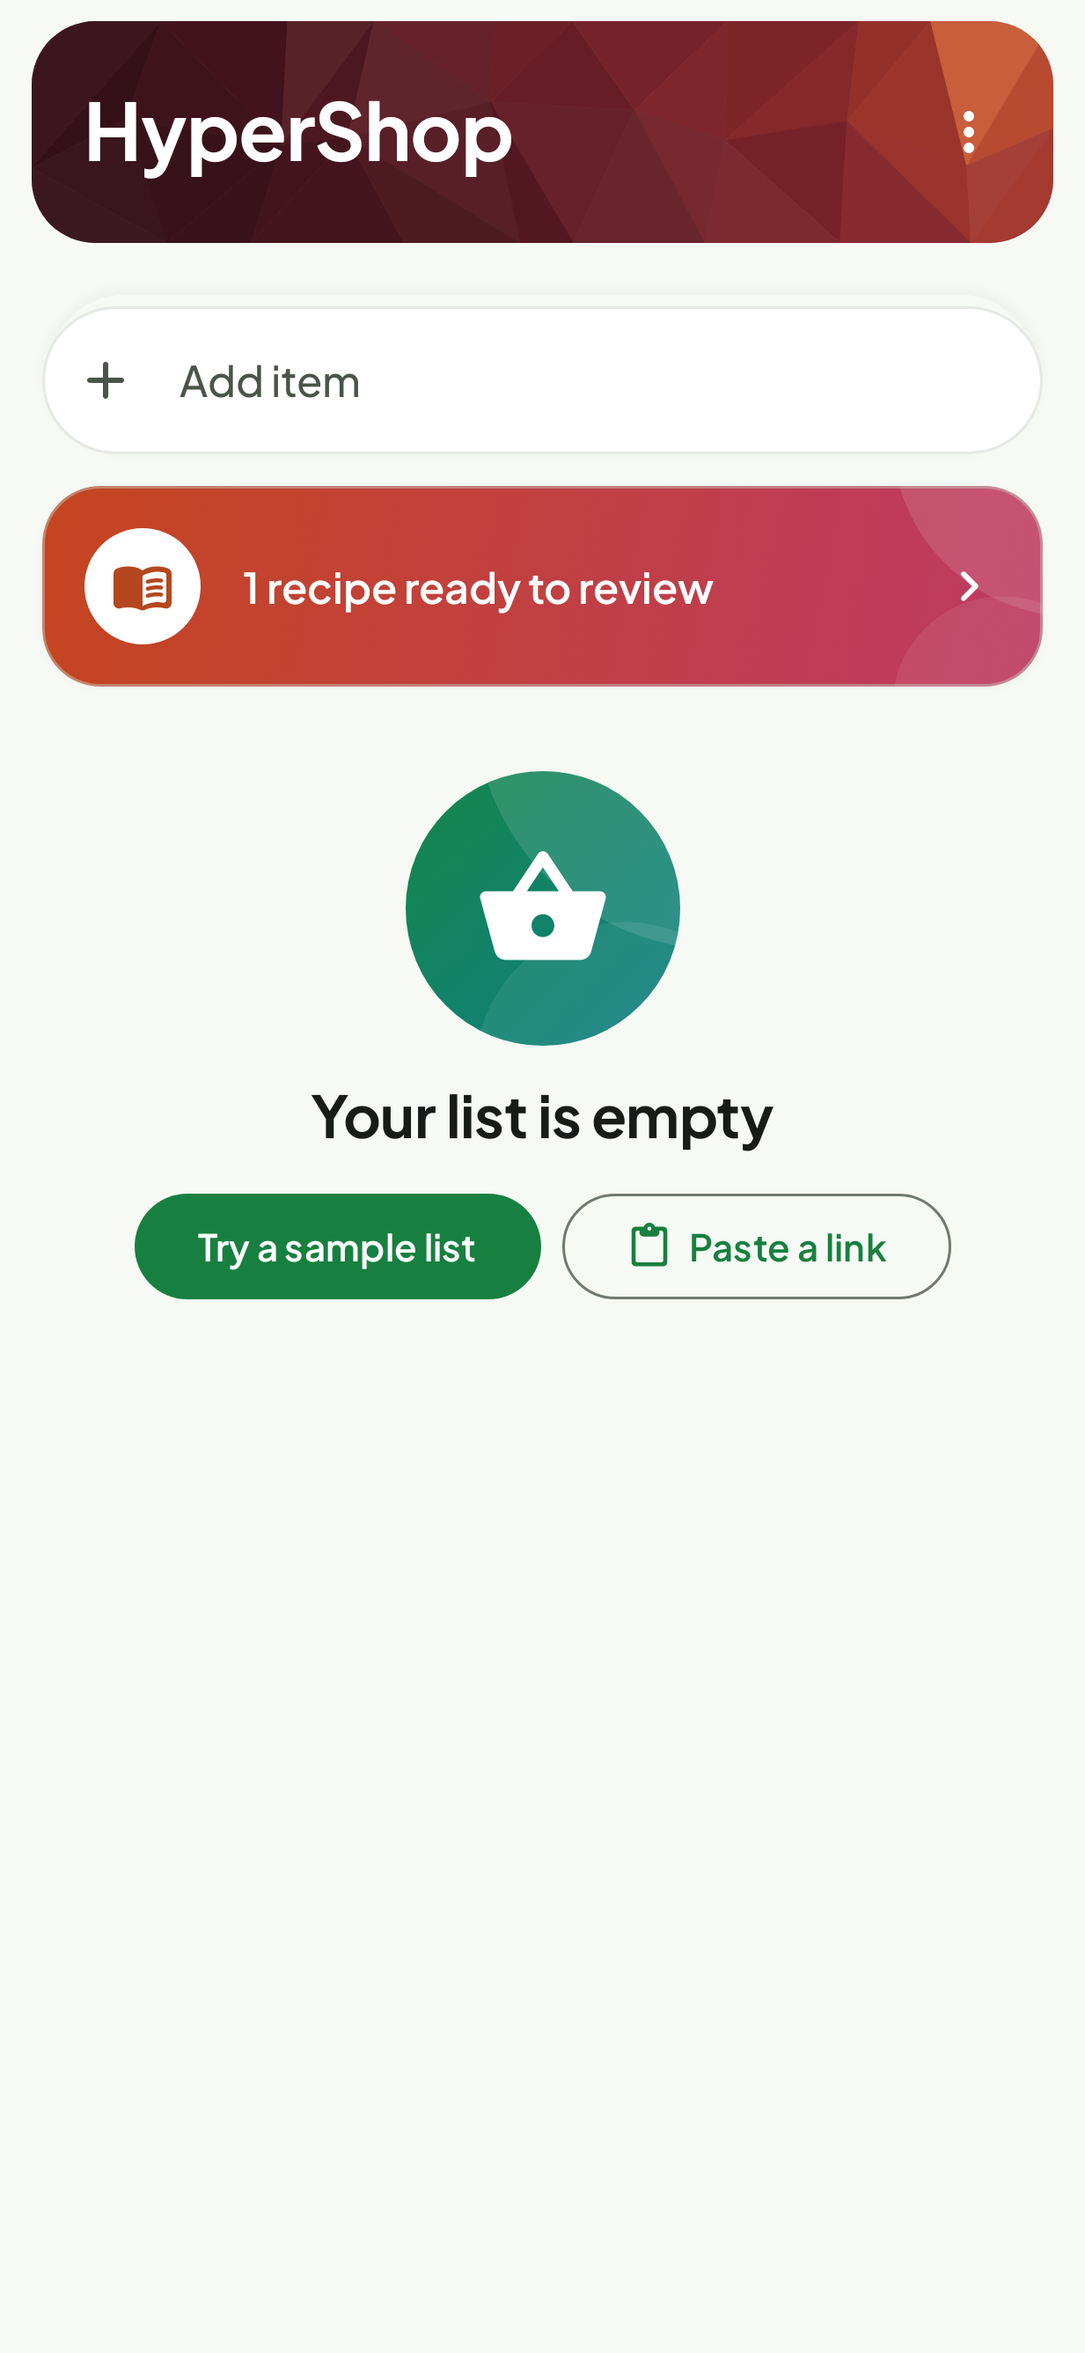
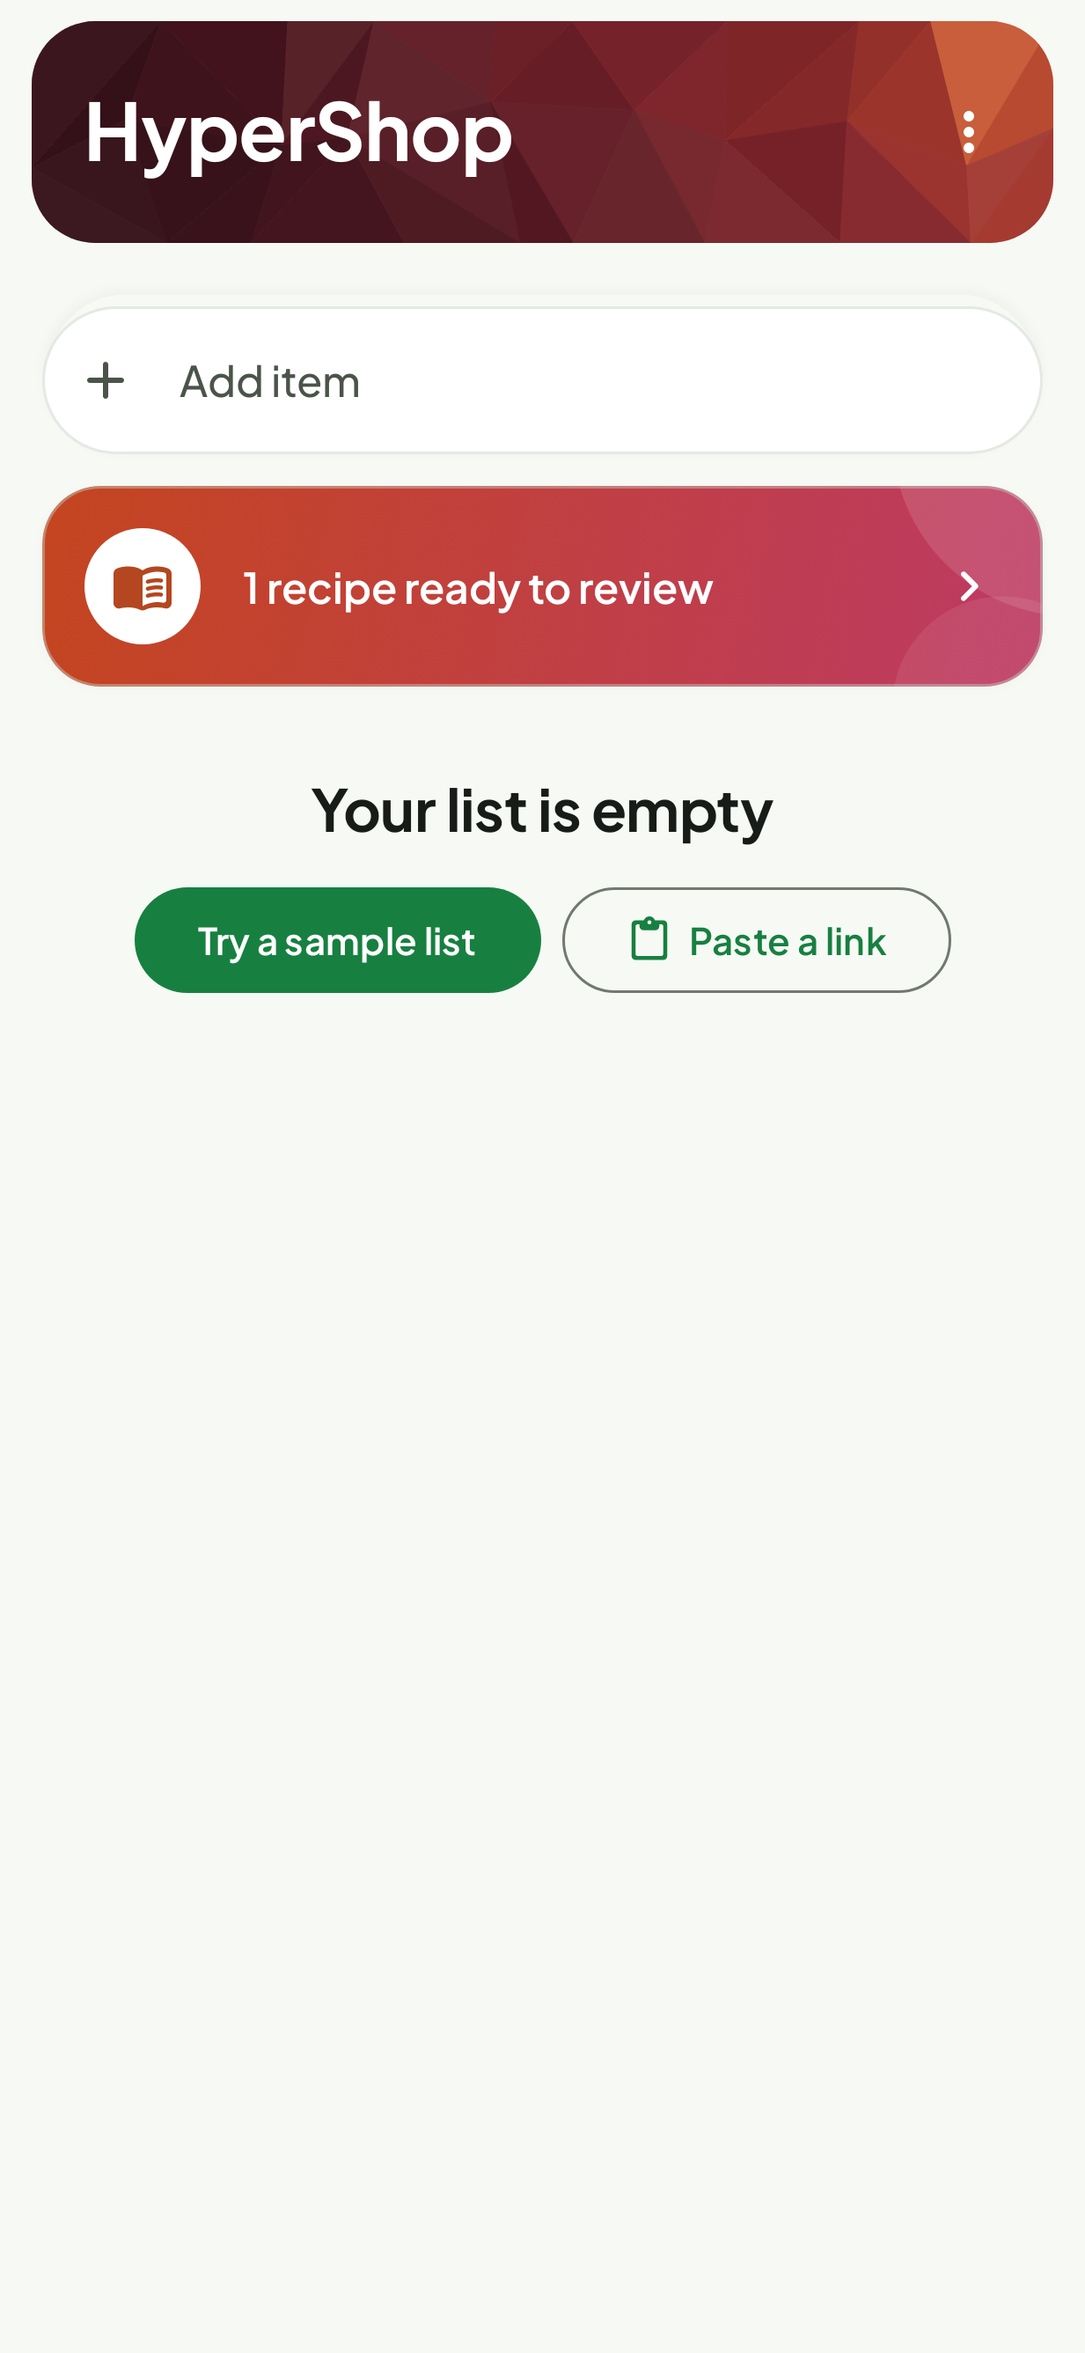
[fix] Fixes from real use: stray reviews, quiet ticks, recipes stay once bought (#44)
* [fix] No stray "recipe ready to review" after an edit or a library re-add

Edit and Add-from-library open the review through an import job. Leaving
one with the system Back kept that job READY, so it turned up on the list
as "1 recipe ready to review" (noticed after an update, when the list was
next opened). These reviews are now throwaway (ImportResult.throwaway):
Back is Cancel on them, Cancel drops them without the "Import discarded"
Undo, and start-up clears any already left behind. Shared and typed-in
imports keep their ready card as before.

Claude-Session: https://claude.ai/code/session_016z2Qp5Lw5mkgJm6Jzuit5a

* [fix] Quiet ticks, recipes stay once bought, plain empty states

From real use:
- No snackbar on a tick: tapping again is the undo, and the popup covered
  the bottom of the list on every tick.
- A recipe stays on the Recipes tab once all its items are bought, marked
  "All bought", as the week's reminder of what to cook. It goes with
  Remove from list, or the 7-day archive at Finish shopping. The
  hand-added card still goes with its last item.
- The empty list (and empty Recipes tab) lose the icon in a green circle.

Claude-Session: https://claude.ai/code/session_016z2Qp5Lw5mkgJm6Jzuit5a

---------

Changed region(s): [[0.1233, 0.3105, 0.8321, 0.5589], [0.6472, 0.5279, 0.8321, 0.5589]]

diff --git a/android/app/src/main/java/com/robert4lyf/hypershop/ui/recipes/RecipesRoute.kt b/android/app/src/main/java/com/robert4lyf/hypershop/ui/recipes/RecipesRoute.kt
@@ -25,6 +25,7 @@ import androidx.compose.material.icons.automirrored.rounded.MenuBook
 import androidx.compose.material.icons.automirrored.rounded.OpenInNew
 import androidx.compose.material.icons.rounded.Add
 import androidx.compose.material.icons.rounded.Close
+import androidx.compose.material.icons.rounded.DoneAll
 import androidx.compose.material.icons.rounded.Edit
 import androidx.compose.material.icons.rounded.Inventory
 import androidx.compose.material.icons.rounded.Link
@@ -233,10 +234,7 @@ fun RecipesScreen(
                 }
                 if (ui.loaded && ui.uses.isEmpty() && !ui.hasLibrary) {
                     item(key = "empty") {
-                        EmptyHero(
-                            Icons.AutoMirrored.Rounded.MenuBook,
-                            "No recipes yet",
-                        )
+                        EmptyHero("No recipes yet")
                     }
                 }
                 if (ui.hasLibrary) {
@@ -596,7 +594,7 @@ private fun UseCard(
                 val bits =
                     listOfNotNull(
                         use.servings?.let { "Serves $it" },
-                        if (use.itemCount == 1) "1 item on the list" else "${use.itemCount} items on the list",
+                        itemsLine(use.itemCount),
                         use.inStockCount.takeIf { it > 0 }?.let { "$it in stock" },
                     )
                 FlowRow(
@@ -607,7 +605,11 @@ private fun UseCard(
                     val bg = Brand.tint(hue, dark)
                     val fg = Brand.strong(hue, dark)
                     use.servings?.let { Fact(Icons.Rounded.People, "Serves $it", bg, fg) }
-                    Fact(Icons.Rounded.ShoppingCart, if (use.itemCount == 1) "1 item" else "${use.itemCount} items", bg, fg)
+                    when (use.itemCount) {
+                        0 -> Fact(Icons.Rounded.DoneAll, "All bought", bg, fg)
+                        1 -> Fact(Icons.Rounded.ShoppingCart, "1 item", bg, fg)
+                        else -> Fact(Icons.Rounded.ShoppingCart, "${use.itemCount} items", bg, fg)
+                    }
                     if (use.inStockCount > 0) Fact(Icons.Rounded.Inventory, "${use.inStockCount} in stock", bg, fg)
                 }
                 if (url != null) {
@@ -765,7 +767,7 @@ fun UseDetailContent(
                     listOfNotNull(
                         url?.let { siteName(it) } ?: use.bookRef,
                         use.servings?.let { s -> "Serves $s" + (detail.writtenFor?.let { " (written for $it)" } ?: "") },
-                        if (use.itemCount == 1) "1 item on the list" else "${use.itemCount} items on the list",
+                        itemsLine(use.itemCount),
                     )
                 Text(
                     bits.joinToString(" · "),
@@ -817,3 +819,11 @@ fun UseDetailContent(
         }
     }
 }
+
+/** "6 items on the list", or "All bought" once a recipe's shopping is done and it stays as a reminder. */
+private fun itemsLine(n: Int): String =
+    when (n) {
+        0 -> "All bought"
+        1 -> "1 item on the list"
+        else -> "$n items on the list"
+    }

diff --git a/android/app/src/test/java/com/robert4lyf/hypershop/ui/recipes/RecipesViewModelTest.kt b/android/app/src/test/java/com/robert4lyf/hypershop/ui/recipes/RecipesViewModelTest.kt
@@ -259,6 +259,59 @@ class RecipesViewModelTest {
     }
 
     @Test
+    fun aRecipeStaysOnceEverythingIsBoughtAndHandAddedGoes() {
+        val c = TestContainer.create()
+        c.add(*CHILLI)
+        runBlocking {
+            val p = c.ruleParser.parse("bin bags")
+            c.repository.manualAdd(p.name, p.shopBase(UnitLocale.METRIC), p.shopUnit)
+        }
+        val vm = RecipesViewModel(c).shown()
+        await(vm.ui) { it.uses.size == 2 }
+        // Everything bought: tick it all, then Finish shopping.
+        runBlocking {
+            for (item in c.repository.snapshot().liveItems) c.repository.toggle(item.id)
+            c.repository.finishShopping()
+        }
+        val after = await(vm.ui) { u -> u.uses.size == 1 && u.uses.single().itemCount == 0 }
+        // The recipe is still there to cook; the hand-added card went with its items.
+        assertEquals("Weeknight chilli", after.uses.single().title)
+        // And "Remove from list" still clears it.
+        vm.remove(after.uses.single())
+        await(vm.ui) { it.uses.isEmpty() }
+    }
+
+    @Test
+    fun leavingAnEditOrALibraryReAddLeavesNothingReadyToReview() {
+        val c = TestContainer.create()
+        c.add(*CHILLI)
+        val vm = RecipesViewModel(c).shown()
+        val start = await(vm.ui) { it.uses.isNotEmpty() && it.library.isNotEmpty() }
+        // Edit, then Back (which is Cancel on these).
+        vm.edit(start.uses.single())
+        val edit = ReviewViewModel(c, nextReview(vm))
+        await(edit.state) { it is ReviewState.Ready }
+        assertTrue(edit.isThrowaway)
+        edit.cancel()
+        await(edit.state) { it is ReviewState.Cancelled }
+        runBlocking { edit.discardForGood() }
+        // "Add" from the library, then Back.
+        vm.addFromLibrary(start.library.single())
+        val again = ReviewViewModel(c, nextReview(vm))
+        // Already on the list: the review asks first, as it does in the app.
+        await(again.state) { it is ReviewState.AlreadyOnList }
+        again.addAgain()
+        await(again.state) { it is ReviewState.Ready }
+        assertTrue(again.isThrowaway)
+        again.cancel()
+        await(again.state) { it is ReviewState.Cancelled }
+        runBlocking { again.discardForGood() }
+        assertTrue(runBlocking { c.importJobs.ready.first() }.isEmpty())
+        // The recipe on the list is untouched.
+        assertEquals(1, await(vm.ui) { it.uses.size == 1 }.uses.size)
+    }
+
+    @Test
     fun renamingShowsOnTheListAndInTheLibrary() {
         val c = TestContainer.create()
         c.add(*CHILLI)

diff --git a/android/app/src/main/java/com/robert4lyf/hypershop/ui/common/Components.kt b/android/app/src/main/java/com/robert4lyf/hypershop/ui/common/Components.kt
@@ -61,8 +61,6 @@ import com.robert4lyf.hypershop.ui.theme.Brand
 import com.robert4lyf.hypershop.ui.theme.LocalDarkTheme
 import com.robert4lyf.hypershop.ui.theme.card
 import com.robert4lyf.hypershop.ui.theme.cardEdge
-import com.robert4lyf.hypershop.ui.theme.heroBrush
-import com.robert4lyf.hypershop.ui.theme.heroGlow
 import com.robert4lyf.hypershop.ui.theme.lowPoly
 import com.robert4lyf.hypershop.ui.theme.style
 
@@ -278,10 +276,9 @@ fun InfoBanner(
     }
 }
 
-/** A large icon in a soft circle, a headline and whatever explains the next step. */
+/** A headline and whatever explains the next step. */
 @Composable
 fun EmptyHero(
-    icon: ImageVector,
     title: String,
     modifier: Modifier = Modifier,
     body: String? = null,
@@ -292,12 +289,6 @@ fun EmptyHero(
         horizontalAlignment = Alignment.CenterHorizontally,
         verticalArrangement = Arrangement.spacedBy(12.dp),
     ) {
-        Box(
-            Modifier.size(104.dp).clip(CircleShape).background(heroBrush).heroGlow(),
-            contentAlignment = Alignment.Center,
-        ) {
-            Icon(icon, contentDescription = null, tint = Brand.OnHero, modifier = Modifier.size(52.dp))
-        }
         Text(title, style = MaterialTheme.typography.headlineSmall)
         body?.let {
             Text(it, style = MaterialTheme.typography.bodyMedium, color = MaterialTheme.colorScheme.onSurfaceVariant)

diff --git a/android/app/src/main/java/com/robert4lyf/hypershop/ui/review/ReviewRoute.kt b/android/app/src/main/java/com/robert4lyf/hypershop/ui/review/ReviewRoute.kt
@@ -1,5 +1,6 @@
 package com.robert4lyf.hypershop.ui.review
 
+import androidx.activity.compose.BackHandler
 import androidx.compose.foundation.layout.Arrangement
 import androidx.compose.foundation.layout.Box
 import androidx.compose.foundation.layout.Column
@@ -96,6 +97,10 @@ fun ReviewRoute(
             dismissButton = { TextButton(onClick = { confirmDiscard = false }) { Text("Keep editing") } },
         )
     }
+    // Back on an edit or a library re-add is Cancel: left as it was, it sat on the
+    // list as "1 recipe ready to review" for something that was never an import.
+    val live = state is ReviewState.Ready || state is ReviewState.Loading
+    BackHandler(enabled = live && vm.isThrowaway) { vm.cancel() }
     when (val s = state) {
         is ReviewState.Loading -> LoadingView(s, onCancel = vm::cancel, onPaste = vm::pasteInstead)
         is ReviewState.Ready ->
@@ -159,7 +164,7 @@ fun ReviewRoute(
         ReviewState.Cancelled ->
             LaunchedEffect(Unit) {
                 onDone()
-                if (vm.isEdit) {
+                if (vm.isThrowaway) {
                     // Nothing was changed on the list, so "Import discarded" and its Undo would be noise.
                     container.applicationScope.launch(Dispatchers.Main) { vm.discardForGood() }
                     return@LaunchedEffect

diff --git a/android/app/src/test/java/com/robert4lyf/hypershop/ui/list/ListViewModelTest.kt b/android/app/src/test/java/com/robert4lyf/hypershop/ui/list/ListViewModelTest.kt
@@ -134,17 +134,10 @@ class ListViewModelTest {
         c.add("2 onions")
         val vm = ListViewModel(c)
         val ui = await(vm.ui) { it.loaded && it.aisles.isNotEmpty() }
-        // A tick is announced, with Undo; tapping again is the undo too.
+        // A tick is quiet; tapping again is the undo.
         vm.toggle(ui.row("onion"))
-        var m = nextMessage(vm)
-        assertEquals("Ticked onion", m.text)
         val done = await(vm.ui) { it.row("onion").state == TickState.DONE }
         vm.toggle(done.row("onion"))
-        await(vm.ui) { it.row("onion").state == TickState.OPEN }
-        vm.toggle(ui.row("onion"))
-        await(vm.ui) { it.row("onion").state == TickState.DONE }
-        m = nextMessage(vm)
-        runBlocking { m.undo!!() }
         await(vm.ui) { it.row("onion").state == TickState.OPEN }
         vm.toggle(ui.row("onion"))
         await(vm.ui) { it.row("onion").state == TickState.DONE }
@@ -166,7 +159,6 @@ class ListViewModelTest {
         runBlocking { m.undo!!() }
         ui = await(vm.ui) { u -> u.aisles.flatMap { it.second }.any { it.name == "carrot" } }
         vm.toggle(ui.row("onion"))
-        assertEquals("Ticked onion", nextMessage(vm).text)
         await(vm.ui) { it.doneCount == 1 }
         vm.finishShopping()
         m = nextMessage(vm)

diff --git a/android/app/src/main/java/com/robert4lyf/hypershop/ui/list/ListViewModel.kt b/android/app/src/main/java/com/robert4lyf/hypershop/ui/list/ListViewModel.kt
@@ -321,21 +321,10 @@ class ListViewModel(
     fun setView(v: ListView) = viewModelScope.launch { c.settings.setListView(v) }
 
     /** The round tick: tick, or untick a DONE row. */
-    fun toggle(row: ListRow) = toggle(row.id, row.name)
+    fun toggle(row: ListRow) = toggle(row.id)
 
-    /**
-     * Tick, or untick a DONE item (the item sheet's button too). A tick gets a
-     * snackbar with Undo, since the row slides away; an untick doesn't, as
-     * tapping again is its undo.
-     */
-    fun toggle(
-        id: Long,
-        name: String,
-    ) = viewModelScope.launch {
-        if (!c.repository.toggle(id)) return@launch
-        // Read back rather than trusting the row on screen: a quick second tap unticks before the list redraws.
-        if (c.repository.snapshot().isDone(id)) messages.send(UiMessage("Ticked $name", undo = { c.repository.untick(id) }))
-    }
+    /** Tick, or untick a DONE item (the item sheet's button too). No snackbar: tapping again is the undo. */
+    fun toggle(id: Long) = viewModelScope.launch { c.repository.toggle(id) }
 
     /** "Delete" on the item card: closes it, with Undo on the list. */
     fun delete(

diff --git a/android/app/src/test/java/com/robert4lyf/hypershop/importing/ImportJobsTest.kt b/android/app/src/test/java/com/robert4lyf/hypershop/importing/ImportJobsTest.kt
@@ -53,4 +53,17 @@ class ImportJobsTest {
             c.importJobs.finishDiscards()
             assertEquals(JobState.DONE, c.importJobs.get(id)!!.state)
         }
+
+    @Test
+    fun anEditOrLibraryReAddLeftBehindIsClearedAtStartUpAndAnImportIsNot() =
+        runBlocking {
+            val c = TestContainer.create()
+            val edit = c.importJobs.enqueueReady(ImportInput("", "Soup"), soup.copy(method = "EDIT", editsUse = 7))
+            val again = c.importJobs.enqueueReady(ImportInput("", "Soup"), soup.copy(method = ImportResult.LIBRARY))
+            val shared = c.importJobs.enqueueReady(ImportInput("", "Soup"), soup)
+            assertEquals(setOf(edit, again, shared), c.importJobs.ready.first().map { it.id }.toSet())
+            c.importJobs.finishThrowaways()
+            assertEquals(listOf(shared), c.importJobs.ready.first().map { it.id })
+            assertEquals(JobState.DONE, c.importJobs.get(edit)!!.state)
+        }
 }

diff --git a/android/data/src/main/kotlin/com/robert4lyf/hypershop/data/ListRepository.kt b/android/data/src/main/kotlin/com/robert4lyf/hypershop/data/ListRepository.kt
@@ -346,7 +346,10 @@ class ListRepository(
         val shown =
             l.uses.values
                 .map { u -> u to l.contributionsOfUse(u.id).filter { it.itemId in live } }
-                .filter { (u, cs) -> u.archivedAt == null && cs.isNotEmpty() }
+                // A recipe stays once everything is bought, as the week's reminder of what to
+                // cook, until "Remove from list" or the 7-day archive at "Finish shopping".
+                // Hand-added items are only shopping, so that card goes with its last item.
+                .filter { (u, cs) -> u.archivedAt == null && (cs.isNotEmpty() || u.kind == UseKind.RECIPE) }
                 .sortedByDescending { (u, _) -> u.addedAt }
         if (shown.isEmpty()) return emptyList()
         val manual = manualTitle()

diff --git a/android/app/src/main/java/com/robert4lyf/hypershop/importing/ImportJobs.kt b/android/app/src/main/java/com/robert4lyf/hypershop/importing/ImportJobs.kt
@@ -142,6 +142,17 @@ class ImportJobs(
     ) = dao.updateJobResult(id, json.encodeToString(ImportResult.serializer(), result))
 
     /**
+     * Start-up: edits and library re-adds left with Back before this was caught
+     * (or by a process killed mid-review) leave the "ready to review" card.
+     */
+    suspend fun finishThrowaways() {
+        for (e in dao.observeJobs(JobState.READY.name).first()) {
+            val r = e.resultJson?.let { runCatching { json.decodeFromString(ImportResult.serializer(), it) }.getOrNull() }
+            if (r?.throwaway == true) done(e.id)
+        }
+    }
+
+    /**
      * Jobs ready to review, for the list's card: their results are not decoded (a
      * page's text can be tens of KB and this re-emits with every job change).
      */

diff --git a/android/app/src/main/java/com/robert4lyf/hypershop/ui/list/ListHeader.kt b/android/app/src/main/java/com/robert4lyf/hypershop/ui/list/ListHeader.kt
@@ -19,7 +19,6 @@ import androidx.compose.material.icons.rounded.Add
 import androidx.compose.material.icons.rounded.ChevronRight
 import androidx.compose.material.icons.rounded.ContentPaste
 import androidx.compose.material.icons.rounded.History
-import androidx.compose.material.icons.rounded.ShoppingBasket
 import androidx.compose.material3.AlertDialog
 import androidx.compose.material3.Button
 import androidx.compose.material3.Icon
@@ -197,7 +196,6 @@ fun EmptyState(
     onPasteLink: () -> Unit = {},
 ) {
     EmptyHero(
-        icon = Icons.Rounded.ShoppingBasket,
         title = "Your list is empty",
         modifier = Modifier.padding(top = 8.dp).testTag("empty"),
     ) {

diff --git a/android/app/src/main/java/com/robert4lyf/hypershop/ui/review/ReviewViewModel.kt b/android/app/src/main/java/com/robert4lyf/hypershop/ui/review/ReviewViewModel.kt
@@ -202,8 +202,8 @@ class ReviewViewModel(
     /** The use an edit replaces ([ImportResult.editsUse]). */
     private val replacing: Long? get() = result?.editsUse
 
-    /** An edit of something already on the list: leaving it changes nothing, so there's nothing to undo. */
-    val isEdit: Boolean get() = replacing != null
+    /** An edit or a library re-add: leaving it changes nothing, so there's nothing to undo or come back to. */
+    val isThrowaway: Boolean get() = result?.throwaway == true
 
     /** See [act]. Declared before init, which uses it. */
     private val ops = Mutex()

diff --git a/android/app/src/main/java/com/robert4lyf/hypershop/importing/ImportModels.kt b/android/app/src/main/java/com/robert4lyf/hypershop/importing/ImportModels.kt
@@ -58,7 +58,14 @@ data class ImportResult(
     /** "Added by hand" opened for editing: no recipe, no book, saved back as hand-added items. */
     val byHand: Boolean get() = method == BY_HAND
 
+    /**
+     * An edit, or "Add" from the library: a review of something already kept, not an
+     * import. Leaving it drops it; it is never "ready to review" afterwards.
+     */
+    val throwaway: Boolean get() = editsUse != null || method == LIBRARY
+
     companion object {
         const val BY_HAND = "BY_HAND"
+        const val LIBRARY = "LIBRARY"
     }
 }
